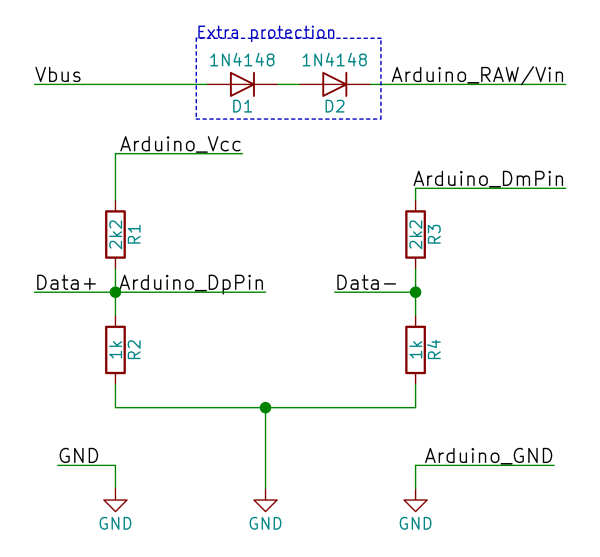
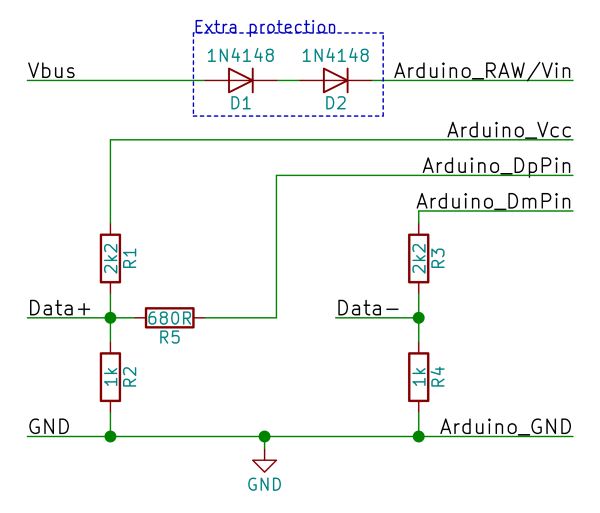
Updated to impoved circuit

Changed region(s): [[0.03, 0.0312, 0.96, 0.9669]]

diff --git a/README.md b/README.md
@@ -19,7 +19,7 @@ GND: Black
 
 You're free to pick any pin on the Arduino, just be sure to point to the right pins in QC2Control().
 
-At the moment it's only tested with a **3,3V** Arduino Pro Mini.
+R5 is optional if a 3,3V Arduino is used. With R5 you can use both 3,3V and 5 Arduino's to control the Quick Charge 2.0 source.
 
 #### Diodes
 Although the regulator on a Arduino Pro Mini should be able to handle 12V (with a light load) some clones don't like 12V and release the [magic smoke](https://en.wikipedia.org/wiki/Magic_smoke). Adding two diodes will drop the voltage slightly (+-1,5V) so the Arduino can handle the voltage, even if it's set to 12V.
